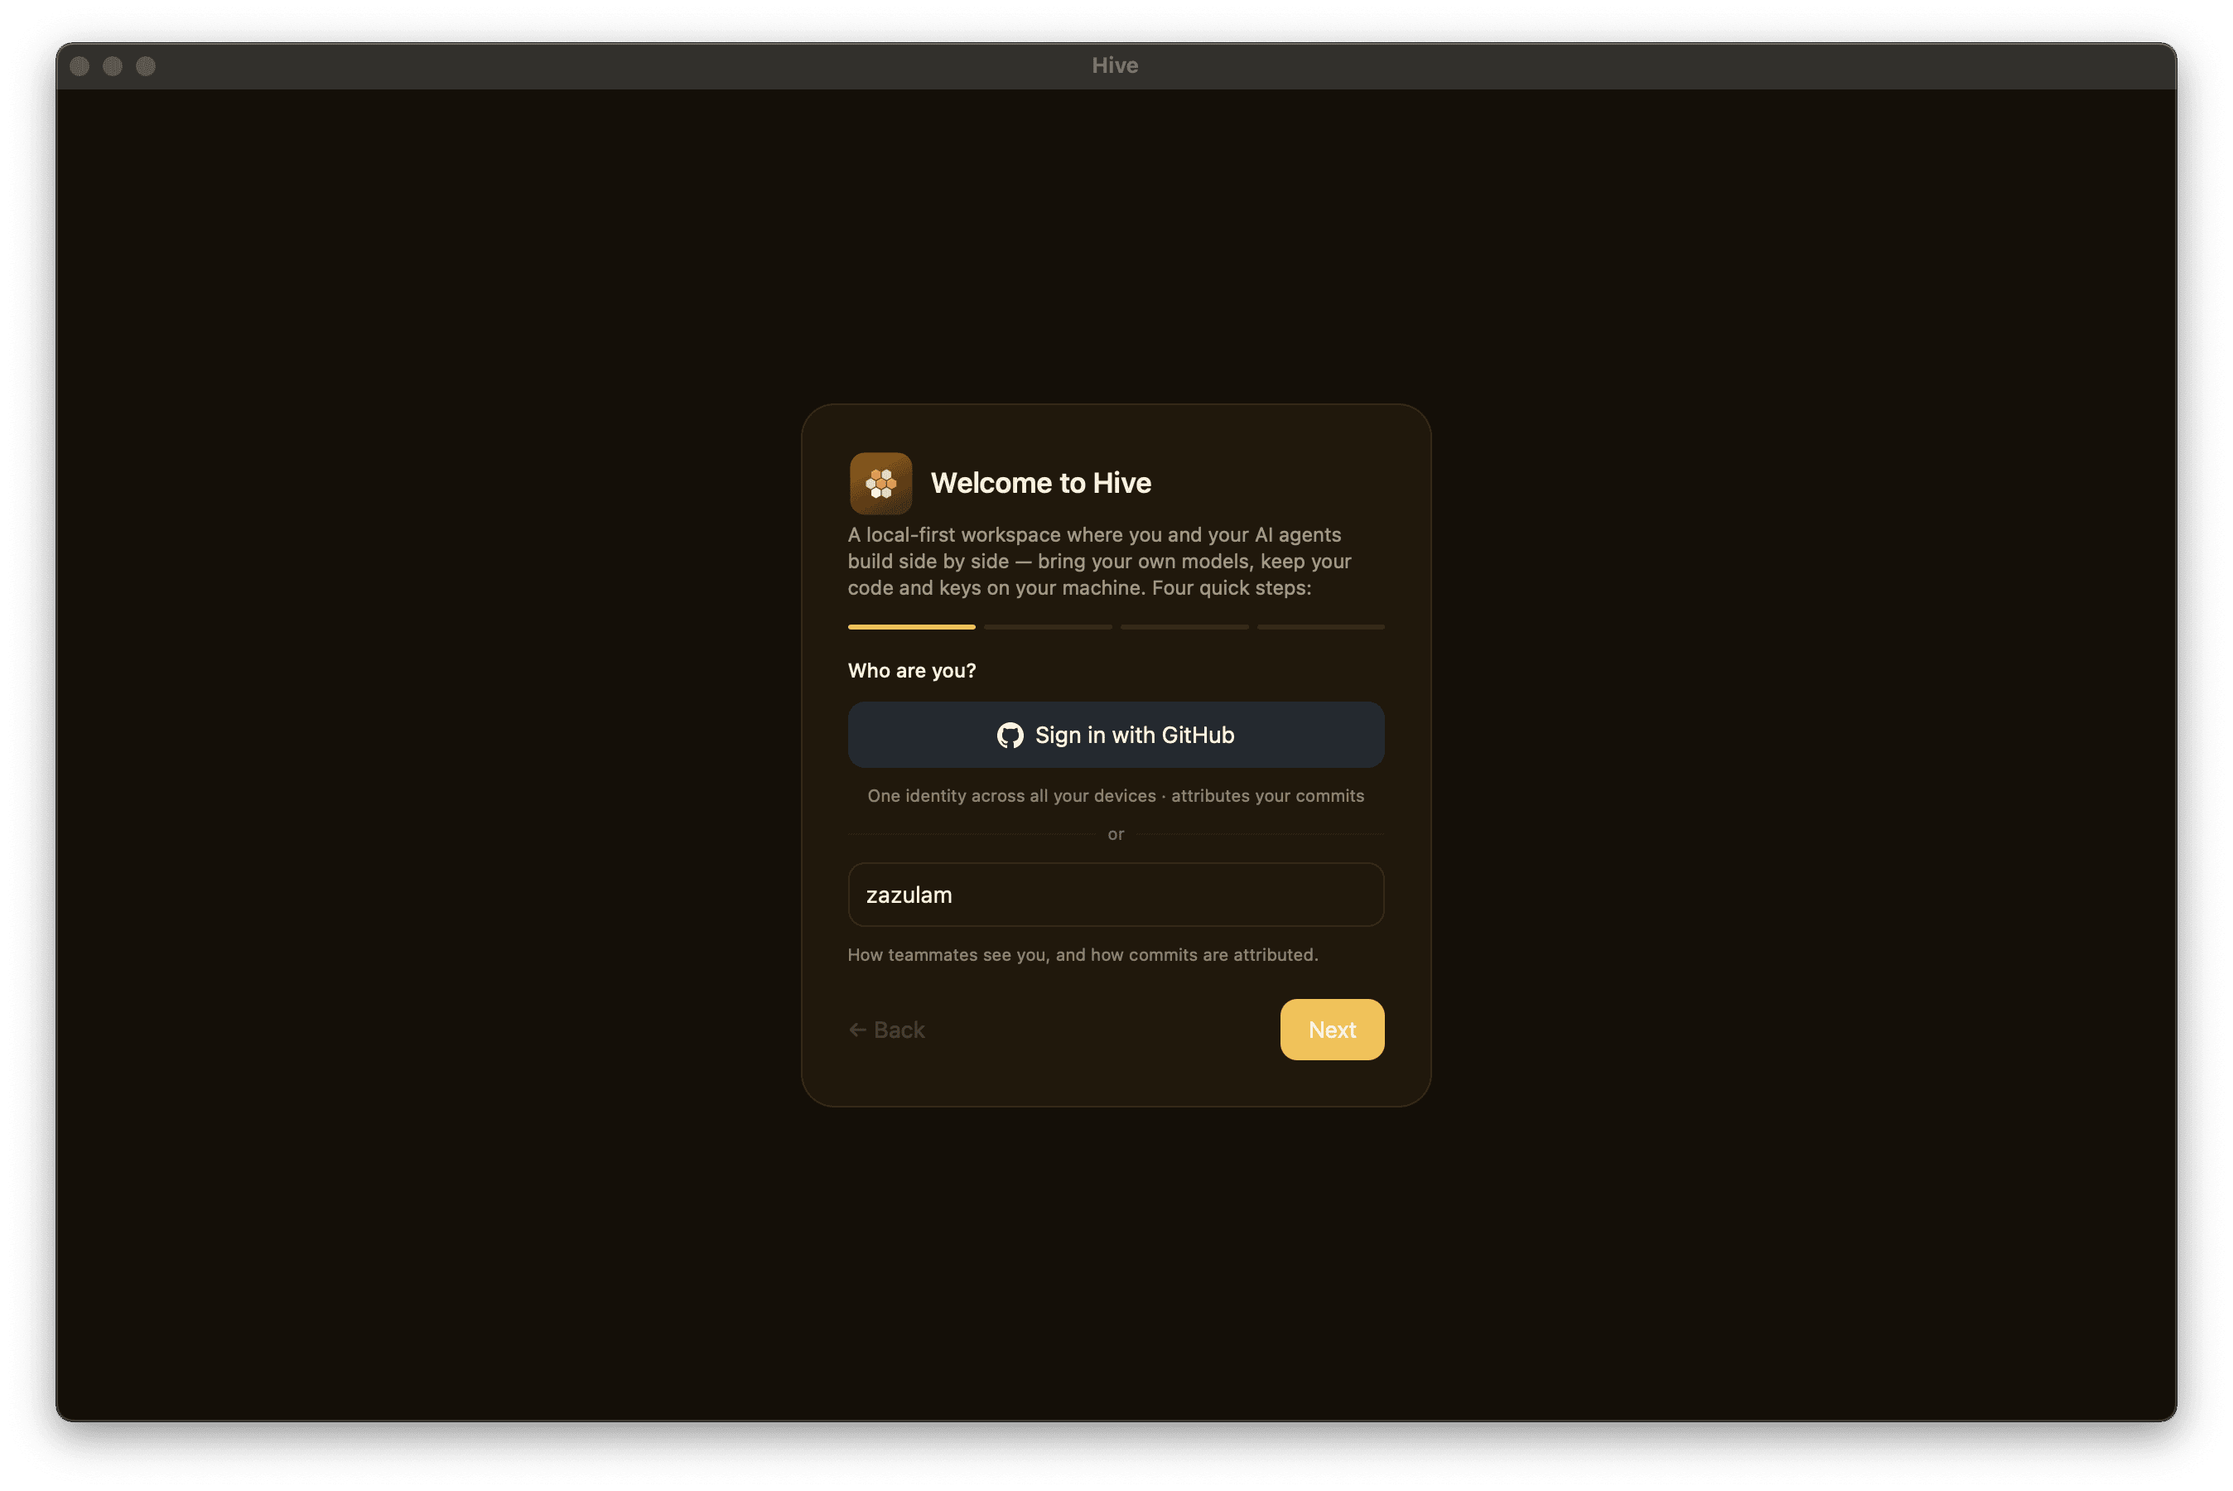
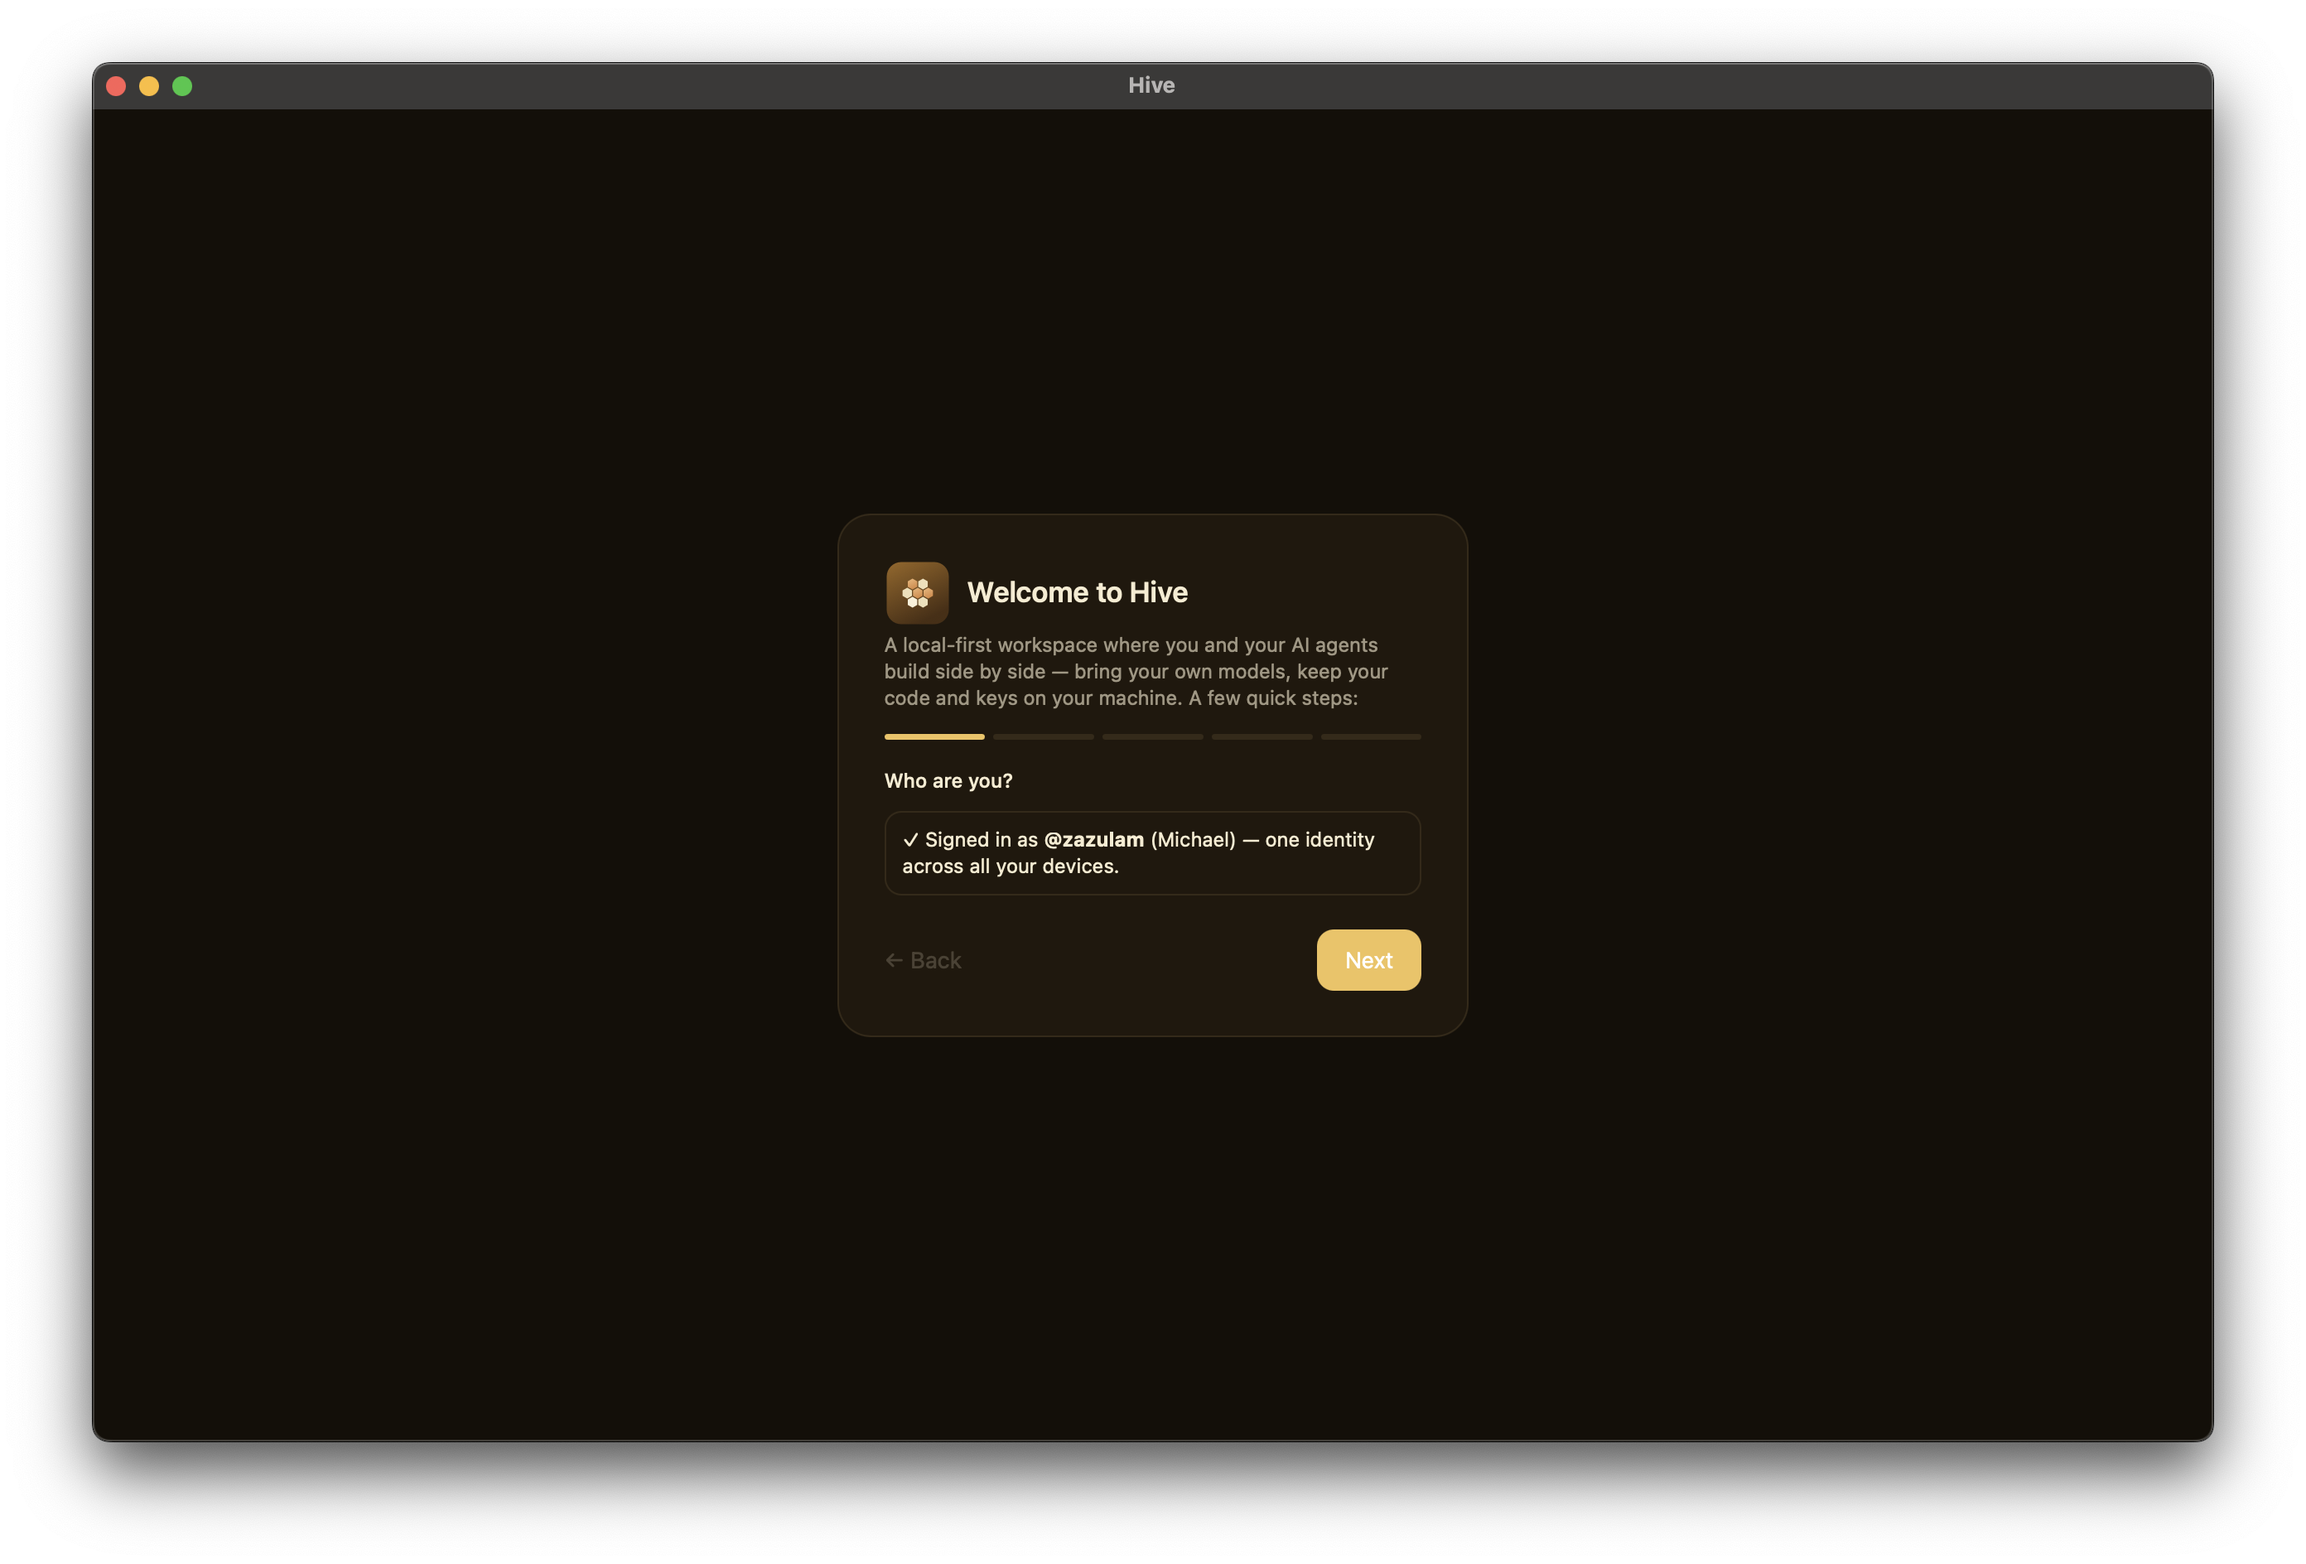
docs: add 1.0 UI screenshots (redacted) and wire them into pages
Captured + mapped the onboarding (5-step), settings, workspace, and workflow
surfaces to the capture-guide contract names, compressed with pngquant.

- Sensitive data redacted: the team invite code (it embeds the workspace E2EE
  key) and the account git email are blacked out. The GitHub device code is
  left as-is (single-use, short-lived, grants nobody access).
- Wired the new shots into their pages: overview -> index.md + README hero,
  workflow-builder -> workflows.md (was imageless), onboarding-team -> the new
  step-4 on onboarding.md, onboarding-appearance -> first-launch.md,
  settings-tools-mcp -> mcp.md, team-invite -> invites.md. The already-
  referenced onboarding-welcome/identity/runtime + settings-general/runtimes
  now render (welcome/identity updated from the stale 4-step versions).

Still to capture (referenced, not blocking the non-strict build): agents-pane,
collaborators, first-chat-empty, invite-pane, right-rail, settings-team-members.

diff --git a/docs-site/features/onboarding.md b/docs-site/features/onboarding.md
@@ -16,6 +16,8 @@ whenever your display name is still unset (or the placeholder `You`)
 
 ![Onboarding identity step](../images/onboarding-identity.png){ width="700" }
 
+![Onboarding step 4 — Team & sync](../images/onboarding-team.png){ width="700" }
+
 There is no separate Welcome, Permissions, or Finish/Review screen —
 identity is the first thing you see, and the last step's **Finish**
 button saves everything. The runtime picker offers Claude Code,

diff --git a/docs-site/features/workflows.md b/docs-site/features/workflows.md
@@ -11,6 +11,8 @@ pane — and the workflow definitions and run records sync **end-to-end
 encrypted** with the workspace, so teammates watch a run progress live and
 can vote its gates from their own devices.
 
+![The workflow builder — a multi-stage DAG with an approval gate](../images/workflow-builder.png){ width="900" }
+
 ## Presets
 
 Open the **Workflows** pane in the right rail and add either preset — both

diff --git a/README.md b/README.md
@@ -56,7 +56,7 @@ without handing their source to a SaaS; and anyone who wants an always-on agent
 that keeps working while their laptop is closed — on infrastructure they control.
 
 <div align="center">
-<img src="docs-site/images/onboarding-welcome.png" alt="Hive onboarding" width="640">
+<img src="docs-site/images/overview.png" alt="Hive — a shared LLM workspace" width="820">
 </div>
 
 ## Features

diff --git a/docs-site/getting-started/first-launch.md b/docs-site/getting-started/first-launch.md
@@ -55,6 +55,8 @@ them off):
 
 ![Onboarding runtime step](../images/onboarding-runtime.png){ width="720" }
 
+![Onboarding step 5 — pick a theme](../images/onboarding-appearance.png){ width="720" }
+
 There's no separate Welcome, Permissions, or Finish/Review screen —
 identity is the first thing you see, and the last step's **Finish**
 button saves everything.

diff --git a/docs-site/addons/mcp.md b/docs-site/addons/mcp.md
@@ -11,6 +11,8 @@ Use MCP when you want to:
 - Share a tool set across many agents and workspaces.
 - Run a long-lived tool process separately from Hive.
 
+![Settings — Tools & MCP](../images/settings-tools-mcp.png){ width="820" }
+
 Don't use MCP when:
 
 - You want a *whole agent* (wire a CLI-agent runtime instead —

diff --git a/docs-site/features/invites.md b/docs-site/features/invites.md
@@ -9,6 +9,8 @@ are three ways to bring someone in.
 
 ## Create / join a team (the ＋ button)
 
+![Creating a team â the invite code is redacted here](../images/team-invite.png){ width="760" }
+
 The common path is the **workspace rail's ＋ button**, which opens
 the **Add workspace** modal with two tabs:
 

diff --git a/docs-site/features/settings.md b/docs-site/features/settings.md
@@ -26,6 +26,7 @@ stored locally per device.
 
 ## Appearance
 
+
 - **Mode** — `Auto` (follows your OS light/dark setting, any platform),
   `Light`, or `Dark`.
 - **Theme** — the accent family: **pollen** (the honey-gold default),

diff --git a/docs-site/index.md b/docs-site/index.md
@@ -5,6 +5,8 @@
 collaborate with peers on real work — code, commits, reviews — and
 keep your data local-first.
 
+![The Hive workspace](images/overview.png){ width="900" }
+
 ---
 
 ## Why Hive
